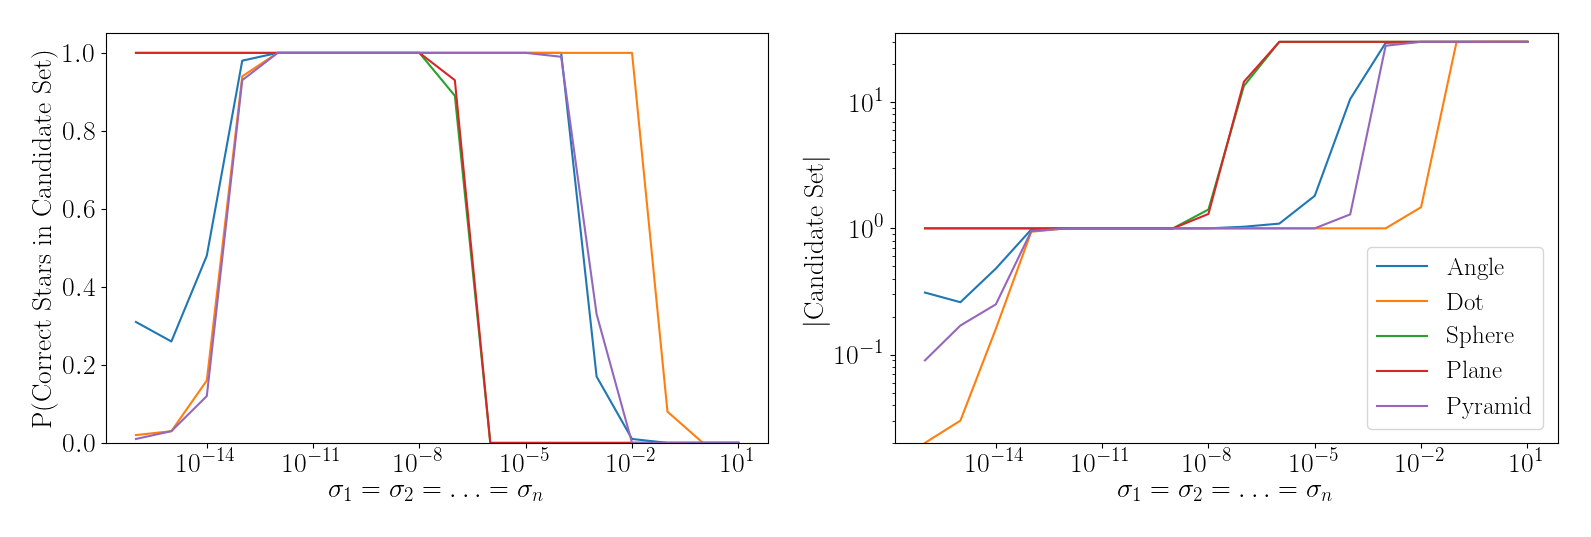
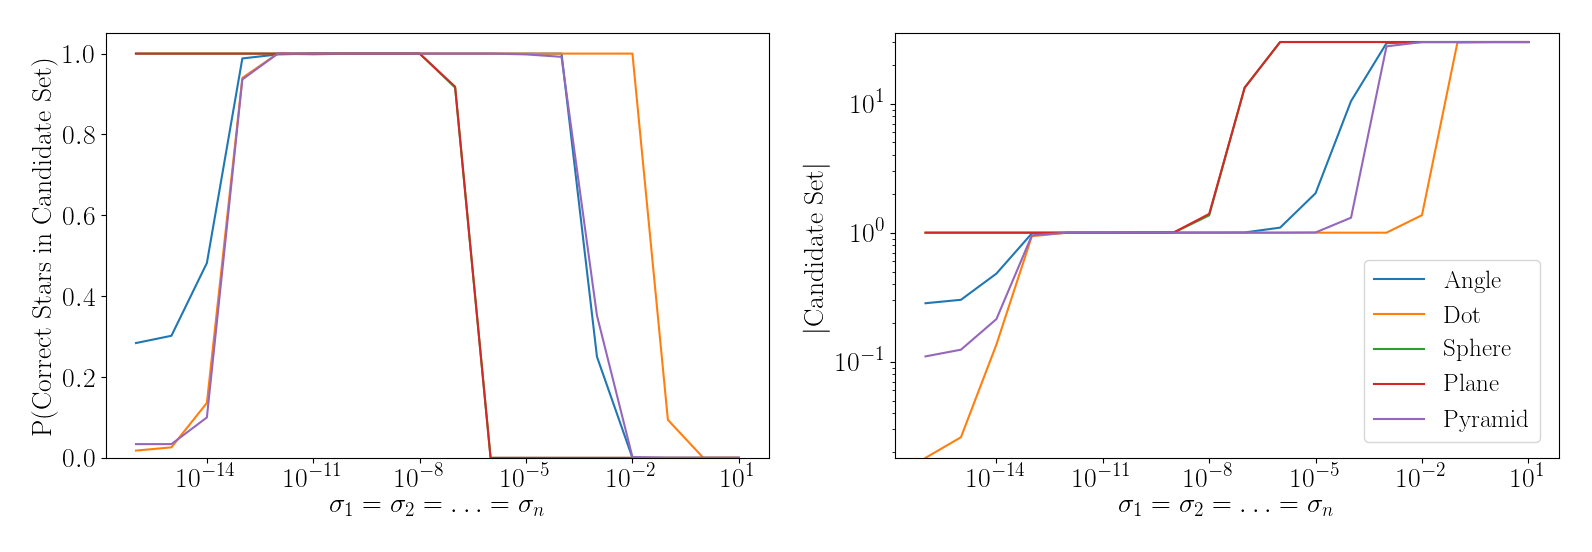
Completed section for overlay plotting and some of the results.

diff --git a/doc/include/methods.tex b/doc/include/methods.tex
@@ -130,7 +130,7 @@ To determine the deviation for the query step, a permutation $P_n^{\sigma_n}$ is
 where:
 \begin{equation}
     \label{eq:gridSearchQuery}
-    \sigma_n \ \in \ \{ 1.0e^{M_1}, 1.0e^{M_2}, \ldots 1.0e^{M_N} \}
+    \sigma_n \ \in \ \{ 10^{M_1}, 10^{M_2}, \ldots 10^{M_N} \}
 \end{equation}
 Each deviation above corresponds to some feature used to query the catalog.
 For example, $n = 3$ for the Dot Angle method.
@@ -163,12 +163,11 @@ where $Q = $ probability that the correct star set exists in $R$ (query hit prob
     \end{align}
 \end{subequations}
 
-% TODO: Incoorperate derivatives above, a larger change indicates more large sensitivity at that point.
-The length of the stability region indicates
-
+The more gradual the response is to the candidate set size or probability, the less penalizing an incorrect deviation
+choice will be.
 The longer that the responses above remain at zero, the less sensitive the hyperparameter selection is for that
 specific feature.
-This suggests that the method may be less susceptible to noise, as there will be less dependence on $\sigma$ itself.
+The ideal feature set is one that has a long period of stability, and one with low responses to a deviation change.
 
 To determine $\sigma$ for the identification step, the grid search devolves into a linear search.
 $\sigma_o$ (overlay) is defined as~\autoref{eq:gridSearchQuery}, for some different set of $M$.
@@ -232,10 +231,10 @@ Crassidus's Planar Triangles method.
     To quantify the selectivity and accuracy of each feature, we looked at:
     \begin{align}
         \text{Query hit probability} &= \frac{1}{N} \sum_{i = 0}^N y(i) \\
-        \text{Query selectivity} &= \frac{1}{N} \sum_{i = 0}^{N} \lvert R(i)) \rvert
+        \text{Query selectivity} &= \frac{1}{N} \sum_{i = 0}^{N} \lvert R(i) \rvert
     \end{align}
 
-    Where $N$ is defined as the number of samples and $p$ defined as:
+    Where $N$ is defined as the number of samples and $p$ is defined as:
     \[ y =
     \begin{cases}
         1 & \text{if correct star set } \in R \\
@@ -268,8 +267,8 @@ method's query steps.
     \label{eq:reductionAccuracyMeasures}
     To quantify the accuracy and efficiency of each query + reduction process, we looked at:
     \begin{align}
-        \text{Reduction hit probability} &= \sum_{i = 0}^N y(i) \\
-        \text{Average reduction efficiency} &= \sum_{i = 0}^N \tau(i)
+        \text{Reduction hit probability} &= \frac{1}{N} \sum_{i = 0}^N y(i) \\
+        \text{Average reduction efficiency} &= \frac{1}{N} \sum_{i = 0}^N \tau(i)
     \end{align}
 
     Where $\tau$ is defined as the number of iterations to obtain a result and $y$ is defined as:
@@ -288,11 +287,25 @@ single match from the catalog candidate set for some image star subset.
 The resulting candidate set represent one element inside the set of $r$ sets.
 Repeating this $N$ times would give us the measures in~\autoref{eq:reductionAccuracyMeasures}.
 
-An ideal reduction processes consists of a reduction hit probability = 1 and an average reduction effiency = 1.
+An ideal reduction processes consists of a reduction hit probability = 1 and an average reduction efficiency = 1.
 
 \subsection{Which method most accurately determines a map?}\label{subsec:identificationMethods}
 This experiment helps determine which identification method produces the most accurate catalog to image maps.
 An accurate map will reduce an attitude determination problem to Wahba's problem, which can be solved.
+
+\begin{subequations}
+    \label{eq:identificationAccuracyMeasures}
+    To quantify the accuracy and efficiency of each identification process (end-to-end), we looked at:
+    \begin{align}
+        \text{Average identification accuracy} &= \frac{1}{N} \sum_{i = 0}^N y(i) \\
+        \text{Average identification efficiency} &= \frac{1}{N} \sum_{i = 0}^N \tau(i)
+    \end{align}
+
+    Where $\tau$ is defined as the number of iterations to obtain a result and $y$ is defined as:
+    \begin{equation}
+        y = \frac{\text{number of correct mappings } b \rightarrow r}{\lvert b \lvert}
+    \end{equation}
+\end{subequations}
 
 
 Referencing~\autoref{figure:genericIdentificationMethodFlowchart} again, this experiment runs the identification
@@ -300,15 +313,5 @@ method end to end.
 Partial accuracy was recorded by counting the number of correct stars against the total amount of stars in a given
 map.
 
-The end to end trials were analyzed using two variables:
-\begin{enumerate}
-    \item \label{itm:correctReducedCandidates} Number of correctly reduced candidate sets $R \rightarrow r$.
-    \item Accuracy of maps in~\itmref{Map Experiment}{itm:correctReducedCandidates}.
-\end{enumerate}
-
-To start, complete images were generated containing $S_b$, $c_b$, and $f$.
-Each identification method was run from start to finish, producing a map $a$ (or not one at all).
-If the map references the correct stars in $S_b$ (i.e.\ the reduction experiment), this is recorded as a
-\textit{reduction hit}.
-
-A larger map accuracy to reduction hit ratio suggests a more optimal map determination process.
+An ideal identification method consists of an average identification accuracy = 1 and an average identification
+efficiency = 1.

diff --git a/doc/include/results.tex b/doc/include/results.tex
@@ -6,7 +6,7 @@ algorithm.
 The grid search exhausts every permutation $P_n^{\sigma_n}$, where:
 \begin{equation}
     \label{eq:gridSearchQuerySigma}
-    \sigma_n \ \in \ \{1.0e^{-16}, 1.0e^{-15}, \ldots 1.0e^{1}\}
+    \sigma_n \ \in \ \{10^{-16}, 10^{-15}, \ldots 10^{1}\}
 \end{equation}
 % 2.22 * 10^-16 is the machine epsilon for double
 
@@ -19,7 +19,7 @@ The grid search exhausts every permutation $P_n^{\sigma_n}$, where:
     The right plot depicts the effect of varying $\sigma$ on the size of the candidate set after the query, bounded
     by 30 candidates at maximum.
     The field-of-view is bounded by $f = 20^\circ$ and the apparent magnitude is bounded by $m = 6.0$.
-    Each point represents the average of 100 query steps without noise introduced.
+    Each point represents the average of 500 query steps without noise introduced.
     For brevity, all deviations associated with methods of more than one feature term (i.e.\ Dot Angle, Spherical
     Triangle, \ldots) had all corresponding $\sigma$ terms set equal to each other.
     } \label{figure:sigmaHyperparameterPlots}
@@ -68,11 +68,11 @@ Regardless of the feature, a deviation choice between these bounds should be acc
         \textbf{Method} & $\ell$ & $\frac{\partial Q}{\partial\sigma} \text{ at } \sigma_{c1}$ &
         $\frac{\partial \lvert R \rvert}{\partial \sigma} \text{ at } \sigma_{c2}$ \\
         \hline \hline
-        \textbf{Angle} & 5 & -0.415 & 0.015 \\ \hline
-        \textbf{Dot Angle} & 10 & -0.460 & 0.235 \\ \hline
-        \textbf{Spherical \newline Triangle} & 8 & -0.055 & 0.205 \\ \hline
-        \textbf{Planar \newline Triangle} & 8 & -0.035 & 0.150 \\ \hline
-        \textbf{Pyramid} & 8 & -0.005 & 0.145
+        \textbf{Angle} & 3 & -0.375 & 0.001 \\ \hline
+        \textbf{Dot Angle} & 9 & -0.453 & 0.183 \\ \hline
+        \textbf{Spherical \newline Triangle} & 8 & -0.042 & 0.181\\ \hline
+        \textbf{Planar \newline Triangle} & 6 & -0.041 & 0.001 \\ \hline
+        \textbf{Pyramid} & 7 & -0.001 & 0.002
     \end{tabular}
     }
 \end{table}
@@ -85,9 +85,6 @@ The Pyramid method uses three similar features, which has the same stable region
 using two distinct features.
 The Angle method uses only one feature for its query, and suffers in stable region length.
 
-% TODO: How to interpret the Q response?
-The largest response belongs to
-
 The candidate set size responses are most likely a result of the size of possible candidates that belong to each
 method's respective feature (i.e.\ the number of rows of the table used in query).
 The Angle method has the least number of possible candidates given the $f < 20 \land m < 6.0$ constraint, at 353700
@@ -96,6 +93,12 @@ The triangle methods have roughly 35 times as many possible catalog sets as the 
 The Dot Angle method has 3 times as many possible catalog sets as the triangle methods, and roughly 105 times as many
 possible catalog sets as the Angle method.
 Given a larger pool of results to choose from, it follows that the number of false positive increases as well.
+
+% TODO: How to interpret the Q response?
+The largest $Q$ response belongs to the Dot Angle method, while the smallest response belongs to the Pyramid method.
+Unlike the candidate set size response, there appears to be no obvious correlation between the response of correct
+star set existence and the number of features used.
+If noise is not known, the most forgiving feature set in terms of both responses is the Pyramid method.
 
 The $\sigma$ parameters for the following experiments were chosen using the results of the grid search, and selecting
 the largest $\sigma_1, \sigma_2, \sigma_3$ (ordered as such) that maintained all the
@@ -114,6 +117,28 @@ conditions in~\autoref{eq:stabilityQuery}.
 
 In addition to the $\sigma_n$ parameters used in the previous experiments, a parameter $\sigma_o$ must be defined
 prior to executing the \Call{DMT}{} method.
+The linear search exhausts every overlay deviation selection:
+\begin{equation}
+    \label{eq:linearSearchSigmaOverlay}
+    \sigma_o \ \in \ \{10^{-16}, 10^{-15}, \ldots 10^{1}\}
+\end{equation}
+
+\begin{figure*}
+    \centering{
+    \includegraphics[scale=0.45]{images/sigma1-pcss-css.png}
+    \caption{
+    The left plot depicts the effect of varying $\sigma$ on the probability that the correct star set exists in the
+    resulting candidates after the query.
+    The right plot depicts the effect of varying $\sigma$ on the size of the candidate set after the query, bounded
+    by 30 candidates at maximum.
+    The field-of-view is bounded by $f = 20^\circ$ and the apparent magnitude is bounded by $m = 6.0$.
+    Each point represents the average of 500 query steps without noise introduced.
+    For brevity, all deviations associated with methods of more than one feature term (i.e.\ Dot Angle, Spherical
+    Triangle, \ldots) had all corresponding $\sigma$ terms set equal to each other.
+    } \label{figure:sigmaOverlayHyperparameterPlots}
+    }
+\end{figure*}
+
 Each experiment was performed 10 times, and the largest $\sigma_o$ that identification the most stars correctly on
 average are displayed below.
 These were used for the experiment presented here.

diff --git a/script/python/plot_experiment.py b/script/python/plot_experiment.py
@@ -28,6 +28,39 @@ from plot_parameters import params
 from plot_base import attach_plot_info, attach_figure_legend, e_plot, d_plot
 
 
+def overlay_plots(cur_i):
+    """ Display the plots associated with the overlay experiment.
+
+    :param cur_i: Cursor to database containing result data.
+    :return: None.
+    """
+    plt.rc('text', usetex=True), plt.rc('font', family='serif', size=20)
+
+    plt.figure()
+    plt.subplot(121)  # Sigma4 vs. TruePositive + TrueNegative w/ ShiftDeviation = 0.1 visualization.
+    for i in ['0.0', '0.1', '0.01', '0.001', '0.0001']:
+        e_plot(cur_i, {'table_name': 'OVERLAY', 'x_attribute': 'Sigma4',
+                       'y_attribute': '(TruePositive + TrueNegative) / (TruePositive + FalsePositive + '
+                                      'TrueNegative + FalseNegative)',
+                       'constrain_that': 'ABS(ShiftDeviation - {}) < 1.0e-16 '.format(i) +
+                                         'AND FalseStars = 0 ',
+                       'params_section': 'overlay-plot', 'params_prefix': 's4as', 'plot_type': 'LINE'})
+    a = plt.legend(['0.0', '0.1', '0.01', '0.001', '0.0001'])
+    a.draggable(True)
+
+    plt.subplot(122)  # Sigma4 vs. TruePositive + TrueNegative w/ FalseStars = 9 visualization.
+    for i in ['0', '3', '6', '9', '12']:
+        e_plot(cur_i, {'table_name': 'OVERLAY', 'x_attribute': 'Sigma4',
+                       'y_attribute': '(TruePositive + TrueNegative) / (TruePositive + FalsePositive + '
+                                      'TrueNegative + FalseNegative)',
+                       'constrain_that': 'ShiftDeviation = 0.0 '
+                                         'AND FalseStars = {} '.format(i),
+                       'params_section': 'overlay-plot', 'params_prefix': 's4af', 'plot_type': 'LINE'})
+    a = plt.legend(['0', '3', '6', '9', '12'])
+    a.draggable(True)
+    plt.show()
+
+
 def nibble_plots(cur_j):
     """ Display the plots associated with the nibble database.
 
@@ -142,7 +175,7 @@ def identification_plots(cur_i):
 if __name__ == '__main__':
     # Ensure that there exists between one and three arguments, and that it is in the appropriate space.
     if len(sys.argv) < 1 or len(sys.argv) > 4 or sys.argv[1] not in ['nibble', 'query-sigma', 'query', 'reduction',
-                                                                     'identification']:
+                                                                     'identification', 'overlay']:
         print('Usage: python3 plot_experiment.py [experiment-to-visualize] [location-of-database]'), exit(1)
 
     # Experiment data in lumberjack.db, or is specified by the user (second argument).
@@ -166,5 +199,7 @@ if __name__ == '__main__':
         query_plots(cur)
     elif sys.argv[1] == 'reduction':
         reduction_plots(cur)
+    elif sys.argv[1] == 'overlay':
+        overlay_plots(cur)
     else:
         identification_plots(cur)

diff --git a/script/python/plot_parameters.py b/script/python/plot_parameters.py
@@ -41,6 +41,23 @@ params = {
         'nstai-xhl': ['0.01', '0.02', '0.03', '0.04', '0.05'],  # X-axis histogram tick labels.
         'nstai-yhl': ['0.001', '0.002', '0.003', '0.004', '0.005'],  # Y-axis histogram tick labels.
     },
+    'overlay-plot': {
+        'll': ['Angle'],  # Legend list.
+
+        # Sigma4 vs. TruePositive + TrueNegative w/ ShiftDeviation = 0.1 plot parameters.
+        's4as-yll': [-0.001, 1.001],  # Y-axis limits.
+        's4as-xal': r'$\sigma_4$',  # X axis label.
+        's4as-yal': r'Accuracy ($\frac{TP + TN}{|r|}$)',  # Y axis label.
+        's4as-lxa': 1,  # Set the X axis as logarithmic.
+        's4as-nll': 1,  # Do not plot the legend.
+
+        # Sigma4 vs. TruePositive + TrueNegative w/ FalseStars = 9 plot parameters.
+        's4af-yll': [-0.001, 1.001],  # Y-axis limits.
+        's4af-xal': r'$\sigma_4$',  # X axis label.
+        's4af-lxa': 1,  # Set the X axis as logarithmic.
+        # 's4af-yal': r'Accuracy ($\frac{TP + TN}{|r|}$)',  # Y axis label.
+        's4af-nll': 1,  # Do not plot the legend.
+    },
     'query-sigma-plot': {
         'll': ['Angle', 'Dot', 'Sphere', 'Plane', 'Pyramid'],  # Legend list.
 

diff --git a/script/python/plot_base.py b/script/python/plot_base.py
@@ -28,12 +28,12 @@ from plot_parameters import params
 
 
 def attach_figure_legend(att, fig, p):
-    """
+    """ Attach a legend to a figure, rather than the current 'plt' object.
 
-    :param att:
-    :param fig:
-    :param p:
-    :return:
+    :param att: Attributes dictionary, containing the key to which axes to label.
+    :param fig: Figure to attach the legend to.
+    :param p: Plot object to attach the legend to (grabs what was just plotted).
+    :return: None.
     """
     sec = att['params_section']
     leg = fig.legend(p, params[sec]['ll'], fontsize=18,
@@ -148,7 +148,7 @@ def e_plot(cur_i, att):
                                 'WHERE IdentificationMethod = ? ' +
                                 ('' if 'constrain_that' not in att.keys() else 'AND ' + att['constrain_that']),
                                 (m,)).fetchall()
-        x_space = list(map(lambda x: x[0], x_space))
+        x_space = sorted(list(map(lambda x: x[0], x_space)))
 
         # Construct the points to plot.
         y_avg, y_std = [], []

diff --git a/README.md b/README.md
@@ -80,7 +80,6 @@ possible option and consuming time, set this appropriately.
 determining a rotation given vector observations in both frame. For every instance where Wahba's problem occurs, this
 method will be applied.
 
-TODO: Add the actual link for the premade database.
 The `nibble.db` database holds all the data each identification method will reference (the catalog). The link 
 [here](https://drive.google.com/file/d/14ZOKBnu3MJV_Fiw9LmygzdUokeYpNVVz/view?usp=sharing) provides this database 
 with the given parameters:
